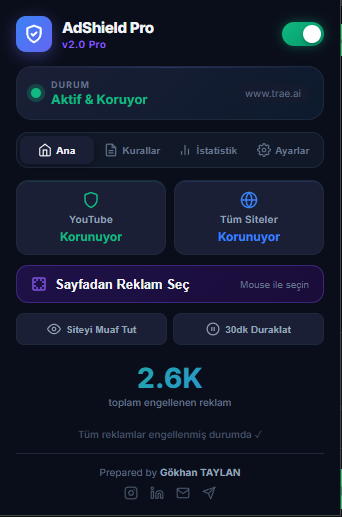
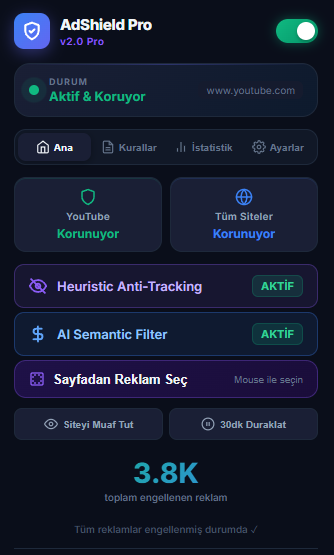
özellik: Yapay zeka paneli eklendi ve sistem performansı artırıldı
* Eklentinin işlemci ve RAM tüketimi sıfıra indirilerek donanım hızlandırmalı tarama altyapısına geçildi.
* Yapay zeka filtresi için tüketilen API token miktarını ve engellenen tıklama tuzağı (clickbait) sayısını gösteren istatistik paneli eklendi.
* README dosyasına yapay zeka ve performans (sıfır ayak izi) güncellemeleri yansıtıldı.

diff --git a/background/service_worker.js b/background/service_worker.js
@@ -162,7 +162,8 @@ async function handleMessage(msg, sender) {
         [STORAGE_KEY_STATS]: { total: 0, daily: {}, byDomain: {} },
         [STORAGE_KEY_PAUSE_UNTIL]: 0,
         aiEnabled: false,
-        aiKeys: []
+        aiKeys: [],
+        aiStats: { tokens: 0, blocked: 0 }
       });
       return {
         success: true,
@@ -173,7 +174,8 @@ async function handleMessage(msg, sender) {
         whitelist: data[STORAGE_KEY_WHITELIST],
         stats: data[STORAGE_KEY_STATS],
         aiEnabled: data.aiEnabled,
-        aiKeys: data.aiKeys
+        aiKeys: data.aiKeys,
+        aiStats: data.aiStats
       };
     }
 
@@ -209,7 +211,7 @@ async function handleMessage(msg, sender) {
 
     case 'CHECK_AI_CONTENT': {
       // API call to Gemini
-      const data = await chrome.storage.local.get({ aiEnabled: false, aiKeys: [] });
+      const data = await chrome.storage.local.get({ aiEnabled: false, aiKeys: [], aiStats: { tokens: 0, blocked: 0 } });
       if (!data.aiEnabled || !data.aiKeys || data.aiKeys.length === 0) {
         return { success: false, error: 'AI disabled or no keys' };
       }
@@ -224,9 +226,7 @@ async function handleMessage(msg, sender) {
       for (const keyItem of data.aiKeys) {
         try {
           const actualKey = keyItem.key || keyItem;
-          // default model if none specified
           let model = keyItem.model || 'models/gemini-2.5-flash';
-          // Ensure model string has models/ prefix 
           if (!model.startsWith('models/')) model = 'models/' + model;
 
           const res = await fetch(`https://generativelanguage.googleapis.com/v1beta/${model}:generateContent?key=${actualKey}`, {
@@ -243,7 +243,19 @@ async function handleMessage(msg, sender) {
           const result = await res.json();
           if (result.candidates && result.candidates[0].content && result.candidates[0].content.parts) {
              const answer = result.candidates[0].content.parts[0].text.trim().toUpperCase();
-             return { success: true, isClickbait: answer.includes('EVET') };
+             const isClickbait = answer.includes('EVET');
+             
+             // Update AI Stats
+             const stats = data.aiStats;
+             if (result.usageMetadata && result.usageMetadata.totalTokenCount) {
+                 stats.tokens += result.usageMetadata.totalTokenCount;
+             }
+             if (isClickbait) {
+                 stats.blocked += 1;
+             }
+             await chrome.storage.local.set({ aiStats: stats });
+             
+             return { success: true, isClickbait };
           }
         } catch(e) {
           // fetch error, maybe try next key

diff --git a/popup/popup.html b/popup/popup.html
@@ -210,7 +210,7 @@
             <h3 class="section-title" style="margin-top: 16px;">Yapay Zeka (AI) İçerik Filtresi</h3>
             <div class="ai-filter-section" style="background: rgba(30, 41, 59, 0.5); padding: 12px; border-radius: 8px; border: 1px solid rgba(51, 65, 85, 0.5);">
                 <div style="display: flex; justify-content: space-between; align-items: center; margin-bottom: 10px;">
-                    <span style="font-size: 13px; color: #e2e8f0; font-weight: 500;">AI Filtresi (Gemini 2.5)</span>
+                    <span style="font-size: 13px; color: #e2e8f0; font-weight: 500;">AI Filtresi (Gemini Modelleri)</span>
                     <label class="toggle-switch" title="AI Filtresi Aç/Kapat" style="transform: scale(0.85); margin: 0;">
                         <input type="checkbox" id="aiToggle" />
                         <span class="toggle-slider"></span>
@@ -227,6 +227,17 @@
                 </div>
                 <div id="aiKeysList" style="margin-top: 8px; display: flex; flex-direction: column; gap: 4px;">
                     <!-- API Keys will be listed here -->
+                </div>
+                <div id="aiStatsDisplay" style="margin-top: 8px; display: none; justify-content: space-between; align-items: center; padding: 8px; background: rgba(59, 130, 246, 0.1); border: 1px solid rgba(59, 130, 246, 0.2); border-radius: 6px;">
+                    <div style="display: flex; flex-direction: column; align-items: center; flex: 1;">
+                        <span style="font-size: 10px; color: #94a3b8;">Tüketilen Token</span>
+                        <span id="aiTokenCount" style="font-size: 14px; font-weight: bold; color: #60a5fa; font-family: monospace;">0</span>
+                    </div>
+                    <div style="width: 1px; height: 24px; background: rgba(59, 130, 246, 0.2);"></div>
+                    <div style="display: flex; flex-direction: column; align-items: center; flex: 1;">
+                        <span style="font-size: 10px; color: #94a3b8;">Engellenen Clickbait</span>
+                        <span id="aiBlockedCount" style="font-size: 14px; font-weight: bold; color: #34d399; font-family: monospace;">0</span>
+                    </div>
                 </div>
                 <div style="font-size: 10px; color: #94a3b8; margin-top: 8px; line-height: 1.4;">
                     Clickbait haberleri ve gizli reklam bölümlerini gizler. Çoklu key-model ikilisi eklerseniz, biri kota aşımına (429) ulaşınca diğerine geçer.

diff --git a/content/yt-blocker.js b/content/yt-blocker.js
@@ -123,35 +123,45 @@
     const isChannelPage = window.location.pathname.includes('/channel/') || window.location.pathname.includes('/@');
     if (isChannelPage) return;
 
-    // Mutation gözlemcisi: sadece video sayfasında
     if (isVideoPage) {
-      const videoContainer = select('#movie_player') || select('#player');
+      const videoContainer = select('#movie_player') || select('ytd-player') || document.body;
       if (videoContainer) {
+        let mutScheduled = false;
         const observer = new MutationObserver((mutations) => {
+          if (mutScheduled) return;
           const hasAdChanges = mutations.some(m => {
             const t = m.target;
-            return t && (
-              t.classList?.contains('ad-showing') ||
-              t.classList?.contains('ytp-ad-player-overlay') ||
-              t.id === 'player-ads' ||
-              t.classList?.contains('video-ads')
+            return t && t.classList && (
+              t.classList.contains('ad-showing') ||
+              t.classList.contains('ytp-ad-player-overlay') ||
+              t.classList.contains('video-ads') ||
+              t.id === 'player-ads'
             );
           });
-          if (hasAdChanges) scheduleTick();
+          if (hasAdChanges) {
+            mutScheduled = true;
+            requestAnimationFrame(() => { mutScheduled = false; tick(); });
+          }
         });
         observer.observe(videoContainer, { subtree: true, childList: true, attributes: true, attributeFilter: ['class'] });
       }
+
+      // Add event listeners instead of setInterval for better performance
+      document.addEventListener('timeupdate', (e) => {
+          if (e.target.tagName === 'VIDEO' && isAdPlaying()) tick();
+      }, true);
+      
+      document.addEventListener('play', (e) => {
+          if (e.target.tagName === 'VIDEO') tick();
+      }, true);
     }
 
+    // İlk taramayı yap
     scheduleTick();
-    const intervalTime = isVideoPage ? 250 : 2000;
-    const interval = setInterval(() => scheduleTick(), intervalTime);
 
     document.addEventListener('visibilitychange', () => {
       if (!document.hidden) scheduleTick();
     });
-
-    window.addEventListener('pagehide', () => clearInterval(interval));
   }
 
   try { start(); } catch(e) {}

diff --git a/popup/popup.js b/popup/popup.js
@@ -149,18 +149,27 @@ document.addEventListener('DOMContentLoaded', async () => {
       btnResumeNow.style.display = 'none';
     }
 
-    // AI Settings & Home Badge
-    const { aiEnabled = false, aiKeys = [] } = currentState;
+    // AI Settings & Home Badge & Stats
+    const { aiEnabled = false, aiKeys = [], aiStats = { tokens: 0, blocked: 0 } } = currentState;
     document.getElementById('aiToggle').checked = aiEnabled;
     renderAiKeys(aiKeys);
 
     const aiBadge = document.getElementById('aiActiveBadge');
-    if (aiBadge) {
-      if (aiEnabled && aiKeys.length > 0) {
-        aiBadge.style.display = 'flex';
-      } else {
-        aiBadge.style.display = 'none';
+    const aiStatsDisplay = document.getElementById('aiStatsDisplay');
+    const aiTokenCount = document.getElementById('aiTokenCount');
+    const aiBlockedCount = document.getElementById('aiBlockedCount');
+
+    if (aiEnabled && aiKeys.length > 0) {
+      if (aiBadge) aiBadge.style.display = 'flex';
+      
+      if (aiStatsDisplay) {
+        aiStatsDisplay.style.display = 'flex';
+        aiTokenCount.textContent = (aiStats.tokens || 0).toLocaleString();
+        aiBlockedCount.textContent = (aiStats.blocked || 0).toLocaleString();
       }
+    } else {
+      if (aiBadge) aiBadge.style.display = 'none';
+      if (aiStatsDisplay) aiStatsDisplay.style.display = 'none';
     }
 
     // Footer Status Message

diff --git a/content/cosmetic-filter.js b/content/cosmetic-filter.js
@@ -227,8 +227,5 @@
   } else {
     document.addEventListener('DOMContentLoaded', startObserver);
   }
-
-  // Periyodik temizlik (bazı reklamlar gecikmeli yükleniyor)
-  setInterval(aggressiveClean, 2000);
 })();
 

diff --git a/README.md b/README.md
@@ -23,7 +23,7 @@ Say goodbye to distractions and hello to a cleaner, faster, and safer internet.
 
 ## ✨ Key Features
 
-- **⚡ Blazing Fast & Dynamic:** The extension injects memory-friendly filtering scripts dynamically and instantly unloads them when turned OFF for zero background footprint.
+- **⚡ Zero-Footprint Performance:** The extension injects memory-friendly filtering scripts dynamically and instantly unloads them when turned OFF. Employs hardware-accelerated (`requestAnimationFrame`) algorithms instead of heavy loops (`setInterval`) to ensure CPU/RAM usage stays near zero.
 - **🚫 Advanced Ad Blocking:** Automatically blocks banners, pop-ups, video ads, and trackers.
 - **🛡 Heuristic Anti-Tracking (New!):** Next-gen privacy shield blocks Canvas/Audio Fingerprinting, intercepts WebRTC leaks, and neutralizes invisible 1x1 tracking pixels and outbound beacon requests.
 - **🧠 AI-Powered Content Filter (New!):** Integrates with Google's Generative AI to semantically analyze text segments (news, articles) and automatically collapse clickbait or undisclosed "Sponsored" content. Includes a dynamic model fetcher (letting users pick from `gemini-1.5-pro` to `gemini-2.5-flash`) and a multi-API-key fallback system.
